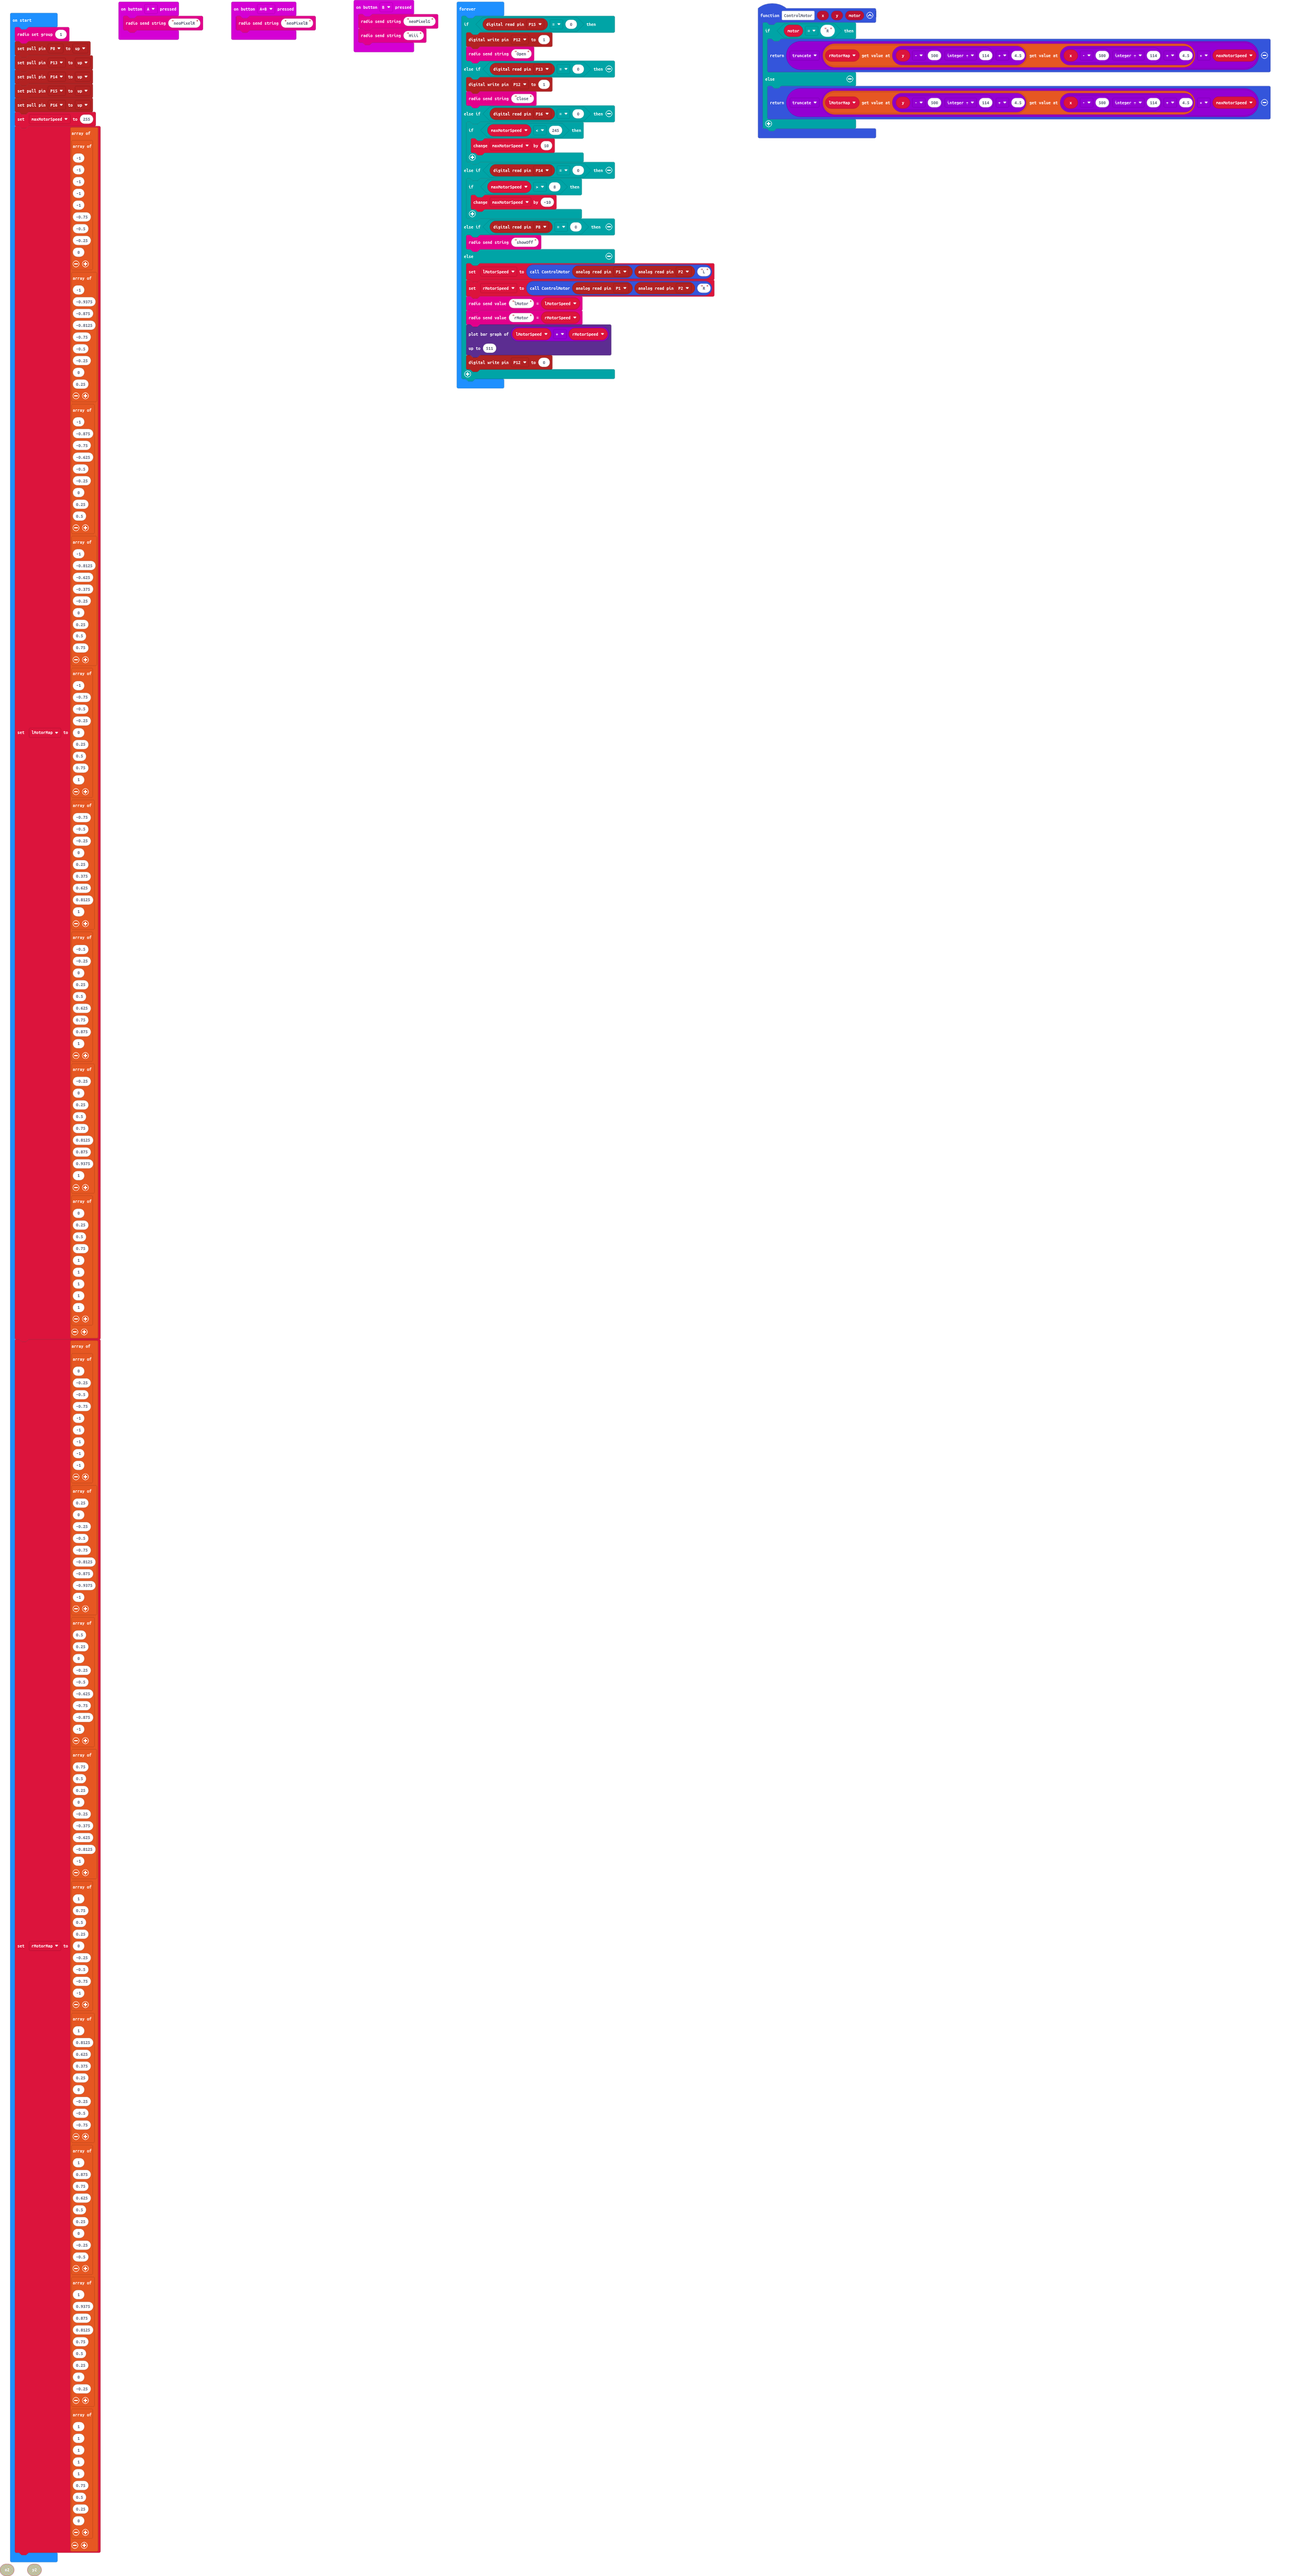
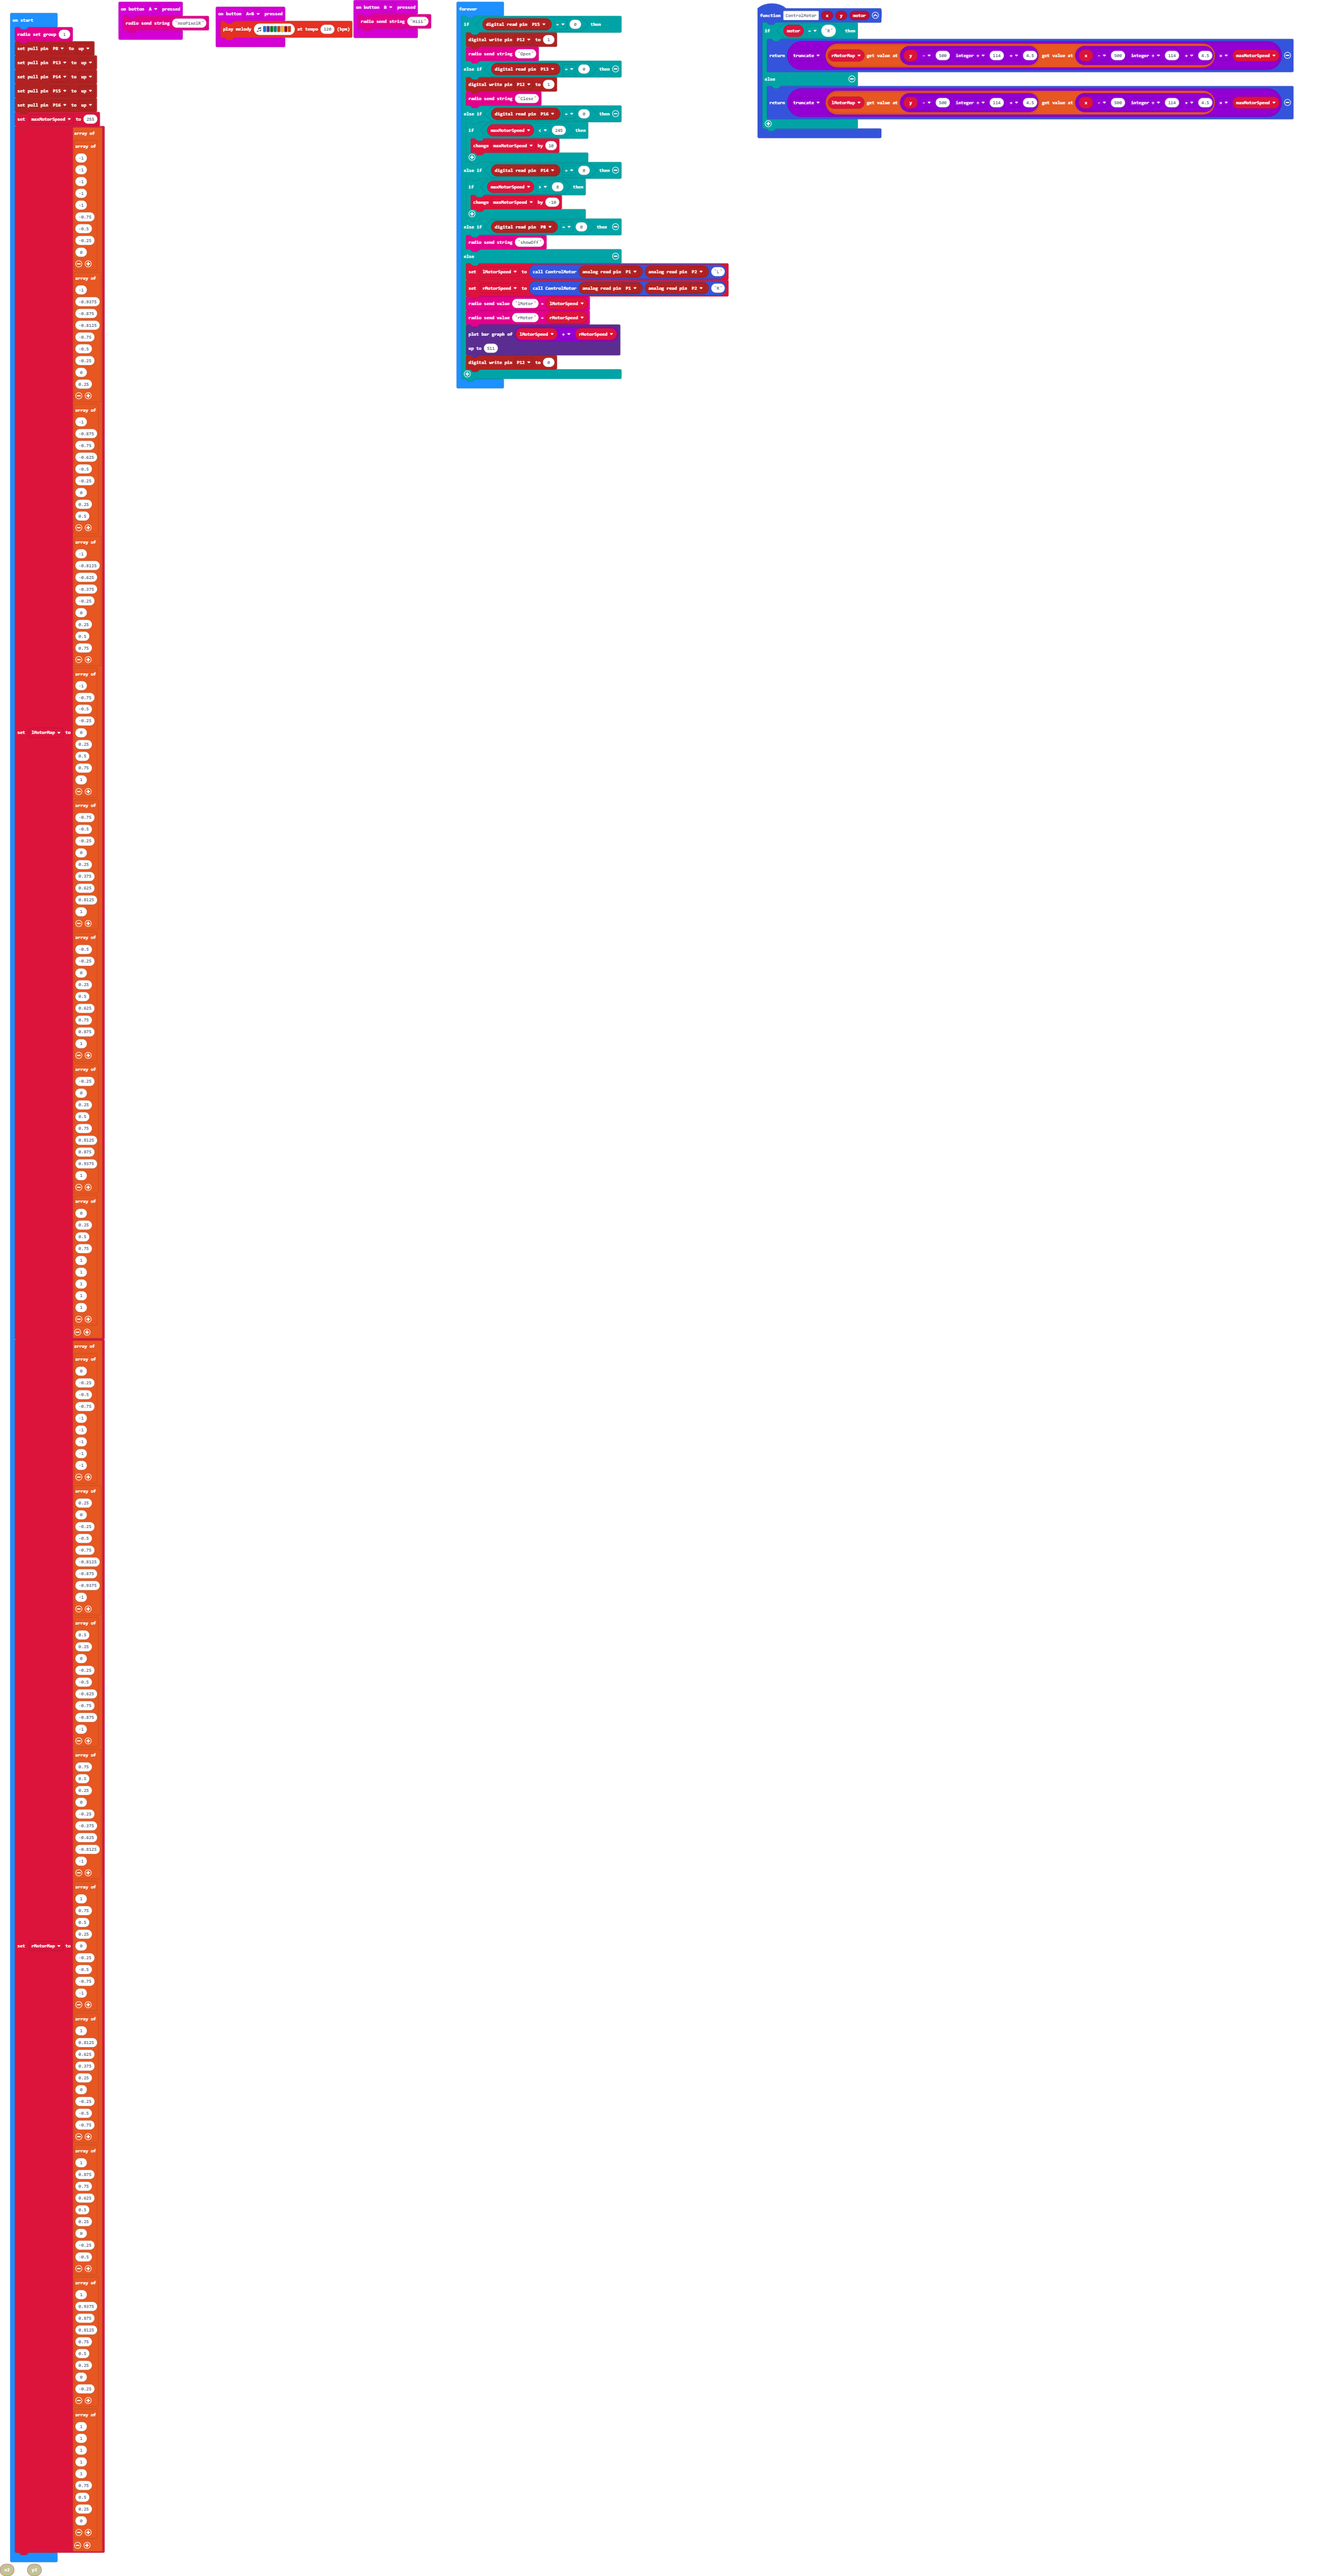
Made a couple changes hope you like it  :)

diff --git a/main.ts b/main.ts
@@ -2,10 +2,9 @@ input.onButtonPressed(Button.A, function () {
     radio.sendString("neoPixelR")
 })
 input.onButtonPressed(Button.AB, function () {
-    radio.sendString("neoPixelB")
+    music.playMelody("E D G F B A C5 B ", 120)
 })
 input.onButtonPressed(Button.B, function () {
-    radio.sendString("neoPixelG")
     radio.sendString("Hiii")
 })
 function ControlMotor (x: number, y: number, motor: string) {
